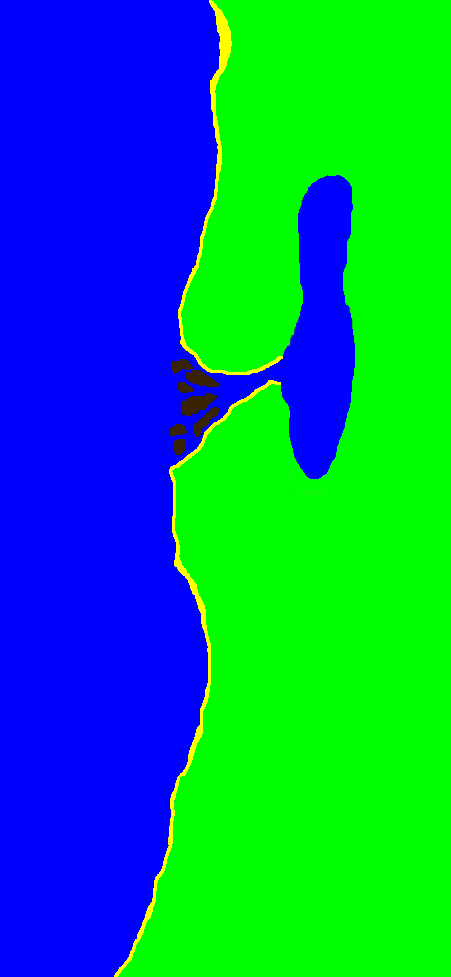
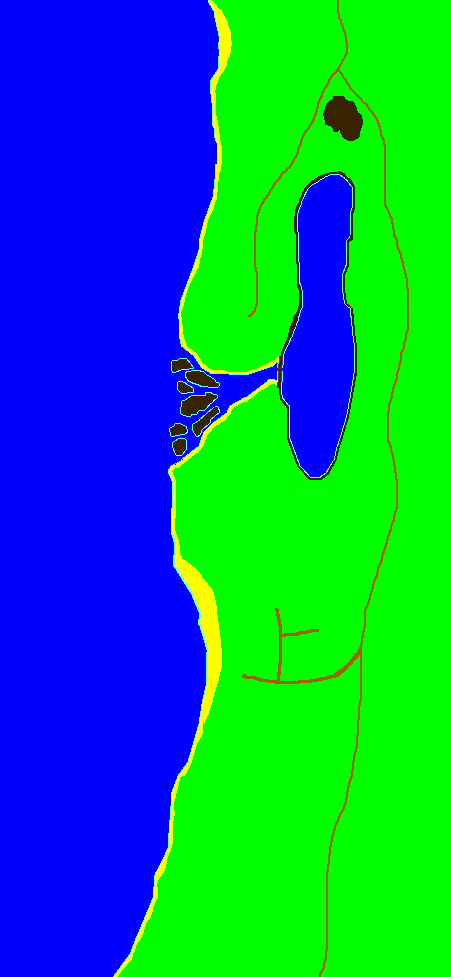
Fixed the glitches w/ Bautista Experimentation w/ Mountain tiles
I still think the mountain tiles need some work, but tell me guys what
you think

diff --git a/src/ca/javajesus/level/BautistasDomain.java b/src/ca/javajesus/level/BautistasDomain.java
@@ -15,13 +15,13 @@ import ca.javajesus.game.entities.structures.RancheroHouse;
 import ca.javajesus.game.entities.structures.RefugeeTent;
 import ca.javajesus.game.entities.structures.ShantyHouse;
 import ca.javajesus.game.entities.structures.Warehouse;
-import ca.javajesus.game.entities.structures.Cinema;
-import ca.javajesus.game.entities.structures.School;
+import ca.javajesus.game.entities.structures.SequoiaCinema;
+import ca.javajesus.game.entities.structures.SequoiaSchool;
 
 
 public class BautistasDomain extends Level{
 	public BautistasDomain(){
-		super("/Levels/Cities/Domain_of_Rancher_Bautista", true);
+		super("/Levels/Cities/Domain_of_Ranchero_Bautista.png", true);
 		this.spawnPoint = new Point(2896, 64);
 		startingSpawnPoint = new Point(2896, 64);
 
@@ -45,7 +45,8 @@ public class BautistasDomain extends Level{
 
 	 
 	protected void otherEntityPlacement() {
-		
+		//Sequoia City
+
 	    //churches and chapels
 	    this.addEntity(new CatholicChapel(this, 2312, 1280));
 	    this.addEntity(new CatholicChurch(this, 920, 2048));
@@ -56,7 +57,7 @@ public class BautistasDomain extends Level{
 	    this.addEntity(new CaveEntrance(this, 1808, 432));
 	    
 	    //cinema
-	    this.addEntity(new Cinema(this, 2800, 1832));
+	    this.addEntity(new SequoiaCinema(this, 2800, 1832));
 	    
 	    ///gunstore
 	    this.addEntity(new GunStore(this, 2952, 1896));
@@ -150,7 +151,7 @@ public class BautistasDomain extends Level{
 	    this.addEntity(new RefugeeTent(this, 3432, 1504));
 
 	    //caucasian lodging
-	    this.addEntity(new School(this, 2264, 1688));
+	    this.addEntity(new SequoiaSchool(this, 2264, 1688));
 
 	    //warehouses
 	    this.addEntity(new Warehouse(this, 2968, 1408));
@@ -161,8 +162,6 @@ public class BautistasDomain extends Level{
 	    this.addEntity(new Warehouse(this, 3280, 752));
 	    this.addEntity(new Warehouse(this, 3440, 712));
 		
-		//Sequoia City
-		//Bautista's Cattle Ranch
 		
 		
 	}

diff --git a/src/ca/javajesus/level/tile/Tile.java b/src/ca/javajesus/level/tile/Tile.java
@@ -127,11 +127,21 @@ public abstract class Tile {
 			42, 13, 0, new int[] { 0xFF76C0F8, 0xFF76C0F8, 0xFF016ABA },
 			0xFFFFB400);
 
-	public static final Tile Floor_Carpet_1 = new BaseTile(46, 10, 1,
+	public static final Tile FLOOR_CARPET_1 = new BaseTile(46, 10, 1,
 			new int[] { 0xFF1F7901, 0xFF1F4001, 0xFF000000 }, 0xFF1f7a01);
 	
 	public static final Tile LINOLEUM = new BaseTile(47, 0, 1, new int[] {
 			0xFFf9ffd8, 0xFF000000, 0xFF000000 }, 0xFFFFFFFF);
+	
+	public static final Tile MOUNTAIN_UP = new BasicSolidTile(50, 5, 2, new int[] {
+			0xFF7F7F7F, 0xFFC3C3C3, 0xFF000000 }, 0xFF9e7013);
+	public static final Tile MOUNTAIN_DOWN = new BasicSolidTile(51, 6, 2, new int[] {
+			0xFF7F7F7F, 0xFFC3C3C3, 0xFF000000 }, 0xFF875a00);
+	public static final Tile MOUNTAIN_LEFT = new BasicSolidTile(52, 8, 2, new int[] {
+			0xFF7F7F7F, 0xFFC3C3C3, 0xFF000000 }, 0xFF564015);
+	public static final Tile MOUNTAIN_RIGHT = new BasicSolidTile(53, 7, 2, new int[] {
+			0xFF7F7F7F, 0xFFC3C3C3, 0xFF000000 }, 0xFF5e3f00);
+
 
 	protected byte id;
 	protected boolean solid;

diff --git a/src/ca/javajesus/level/EdgeOfTheWoods.java b/src/ca/javajesus/level/EdgeOfTheWoods.java
@@ -1,0 +1,33 @@
+package ca.javajesus.level;
+
+import java.awt.Point;
+
+import ca.javajesus.game.entities.structures.trees.Forest;
+
+public class EdgeOfTheWoods extends Level{
+
+	public EdgeOfTheWoods() {
+		super("/Levels/Wilderness_Areas/Edge_of_the_Woods_Main.png", true);
+		this.spawnPoint = new Point(2224, 2816);
+		startingSpawnPoint = new Point(2224, 2816);
+	}
+
+	protected void initNPCPlacement() {
+		
+	}
+
+	protected void initSpawnerPlacement() {
+		
+	}
+
+	protected void initChestPlacement() {
+		
+	}
+
+	protected void otherEntityPlacement() {
+		
+		this.addEntity(new Forest(this, 1360, 2040, 3608, 7816));
+
+	}
+
+}

diff --git a/src/ca/javajesus/level/Level.java b/src/ca/javajesus/level/Level.java
@@ -47,7 +47,7 @@ public abstract class Level implements Serializable {
 
 	protected int[] tileColours;
 
-	public static Level level1 = new Level1();
+	public static Level level1 = new EdgeOfTheWoods();
 	public static Level lordHillsboroughsDomain = new LordHillsboroughsDomain();
 	public static Level roadlevel = new RoadLevel();
 	public static Level random = new RandomLevel(level1.width, level1.height);
